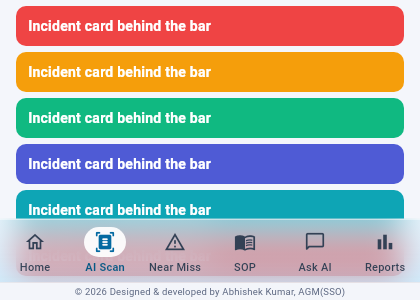
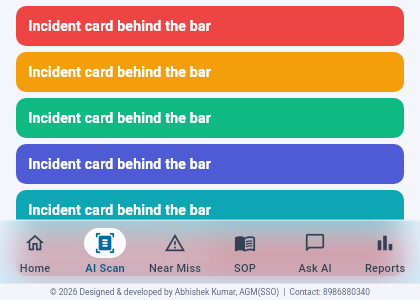
Copyright footer: add tap-to-call contact 8986880340 beside the credit

diff --git a/lib/widgets/copyright_footer.dart b/lib/widgets/copyright_footer.dart
@@ -1,4 +1,5 @@
 import 'package:flutter/material.dart';
+import 'package:url_launcher/url_launcher.dart';
 
 /// App-wide copyright line, pinned below every route by `MaterialApp.builder`
 /// in main.dart (owner request 2026-10-06: "at the bottom of each page",
@@ -16,6 +17,7 @@ class CopyrightFooter extends StatelessWidget {
 
   static const text =
       'Designed & developed by Abhishek Kumar, AGM(SSO)';
+  static const phone = '8986880340';
 
   @override
   Widget build(BuildContext context) {
@@ -26,6 +28,12 @@ class CopyrightFooter extends StatelessWidget {
     final bg = dark ? const Color(0xFF060B24) : const Color(0xFFF3F5FA);
     final fg = dark ? const Color(0xFF9AA6BF) : const Color(0xFF5B6680);
     final edge = dark ? const Color(0x1FFFFFFF) : const Color(0x14000000);
+    final base = TextStyle(
+      fontSize: 9.5,
+      height: 1.2,
+      letterSpacing: 0.2,
+      color: fg,
+    );
 
     return Column(
       children: [
@@ -44,21 +52,52 @@ class CopyrightFooter extends StatelessWidget {
               border: Border(top: BorderSide(color: edge, width: 0.5)),
             ),
             padding: EdgeInsets.fromLTRB(12, 3, 12, 3 + mq.padding.bottom),
-            child: Text(
-              '© ${DateTime.now().year} $text',
-              textAlign: TextAlign.center,
-              maxLines: 1,
-              overflow: TextOverflow.ellipsis,
-              // Fixed size: ignore the user's text scale so the strip stays
-              // a single small line on every device.
-              textScaler: TextScaler.noScaling,
-              style: TextStyle(
-                fontSize: 9.5,
-                height: 1.2,
-                letterSpacing: 0.2,
-                color: fg,
-              ),
-            ),
+            // One line when it fits; on narrow phones the contact drops to
+            // a second centred line instead of truncating the name.
+            child: LayoutBuilder(builder: (context, c) {
+              // Typical phones (360-430 px) keep it beside the name by
+              // stepping the size down a touch; only very narrow screens
+              // wrap.
+              final oneLine = c.maxWidth >= 335;
+              final style = c.maxWidth >= 400 || !oneLine
+                  ? base
+                  : base.copyWith(fontSize: 8.4, letterSpacing: 0);
+              final copy = Text('© ${DateTime.now().year} $text',
+                  maxLines: 1,
+                  overflow: TextOverflow.ellipsis,
+                  textAlign: TextAlign.center,
+                  // Fixed size: ignore the user's text scale so the strip
+                  // stays small on every device.
+                  textScaler: TextScaler.noScaling,
+                  style: style);
+              // Tap to call on phones (tel: link); harmless on desktop.
+              final contact = MouseRegion(
+                cursor: SystemMouseCursors.click,
+                child: GestureDetector(
+                  onTap: () => launchUrl(Uri.parse('tel:+91$phone')),
+                  child: Text('Contact: $phone',
+                      maxLines: 1,
+                      textScaler: TextScaler.noScaling,
+                      style: style),
+                ),
+              );
+              if (oneLine) {
+                return Row(
+                  mainAxisAlignment: MainAxisAlignment.center,
+                  children: [
+                    Flexible(child: copy),
+                    Text('  |  ',
+                        textScaler: TextScaler.noScaling, style: style),
+                    contact,
+                  ],
+                );
+              }
+              return Column(mainAxisSize: MainAxisSize.min, children: [
+                copy,
+                const SizedBox(height: 1),
+                contact,
+              ]);
+            }),
           ),
         ),
       ],

diff --git a/STATUS.md b/STATUS.md
@@ -1,6 +1,6 @@
 ## 2026-10-06
 
-- Copyright footer on every page: a small (9.5 px) line reading "© <year> Designed & developed by Abhishek Kumar, AGM(SSO)". It is `lib/widgets/copyright_footer.dart`, added through `MaterialApp.builder` in main.dart. It is a thin strip below each route, not an overlay, so it never covers the nav bar or buttons. It takes the iPhone home-indicator inset and hides while the keyboard is open. Audit: AUDIT_2026-10-06_COPYRIGHT_FOOTER.md.
+- Copyright footer on every page: a small (9.5 px) line reading "© <year> Designed & developed by Abhishek Kumar, AGM(SSO)". It is `lib/widgets/copyright_footer.dart`, added through `MaterialApp.builder` in main.dart. It is a thin strip below each route, not an overlay, so it never covers the nav bar or buttons. It takes the iPhone home-indicator inset and hides while the keyboard is open. The line also shows a tap-to-call "Contact: 8986880340" beside the credit. On phones it steps down to 8.4 px to stay on one line; it wraps only below 335 px. Audit: AUDIT_2026-10-06_COPYRIGHT_FOOTER.md.
 - iPhone web login fix (Safari + Chrome): "QuotaExceededError". The ~2.7 MB KB cache filled WebKit's ~5 MB localStorage, and then every write, including the login's own, threw. On the web the KB and user-directory caches now live in memory (local-only KB docs are still saved). Existing full storage is cleared on load, and every LocalDB write is quota-safe and never throws. Test reproduces the old failure. AUDIT_2026-10-06_SAFARI_LOGIN.md §Follow-up.
 - Safari login fix: Flutter web leaves `autocorrect="on"` on inputs, and only Safari acts on it, so usernames (and revealed passwords) could be changed before sending. Credential fields now turn off autocorrect, suggestions and smart punctuation, and a stray trailing keyboard space no longer fails the login. AUDIT_2026-10-06_SAFARI_LOGIN.md.
 

diff --git a/AUDIT_2026-10-06_COPYRIGHT_FOOTER.md b/AUDIT_2026-10-06_COPYRIGHT_FOOTER.md
@@ -20,6 +20,12 @@ The strip takes the bottom safe-area inset (the iPhone home indicator), and that
 - `tools/login_render_test.dart` and `tools/navbar_render_test.dart` both wrap the app in the same builder as main.dart. All 16 renders pass.
 - Evidence is in `audit_2026-10-06/copyright_*.png`. The zoomed crops show the phone login, the desktop login and the bottom navigation bar. In each one the footer sits below the content and the nav bar is fully visible.
 
+## Follow-up: contact number
+
+The owner asked for his contact number "just beside" the credit. The line now reads "© <year> Designed & developed by Abhishek Kumar, AGM(SSO)  |  Contact: 8986880340". The number is a tap-to-call link (`tel:+918986880340`), and desktop browsers show a pointer cursor over it.
+
+On screens 400 px wide and up, the line is 9.5 px. On typical phones (335–399 px) it steps down to 8.4 px so the number still fits beside the name. Only very narrow screens (under 335 px, such as the 320 px render) put the number on a second centred line, so the name is never cut off. The renders and zoomed crops were refreshed, all 16 render tests pass, and analyze shows 52 issues with 0 errors.
+
 ## Not changed
 
 PDF reports do not carry the line yet. That can be added to the report footer on request.
